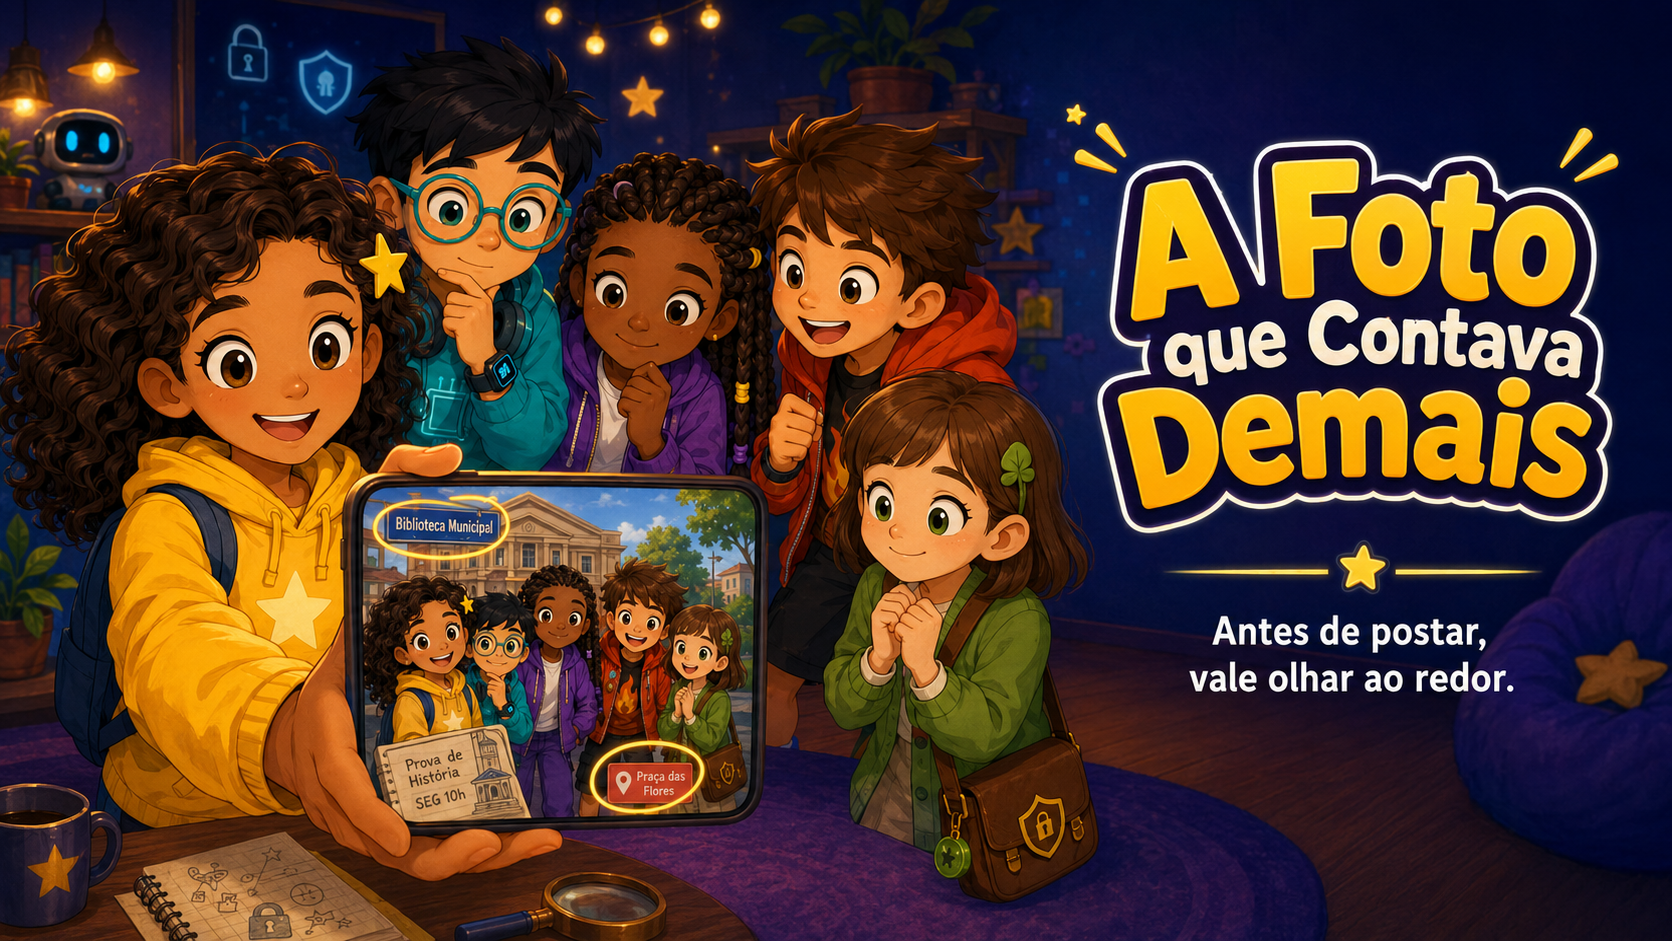
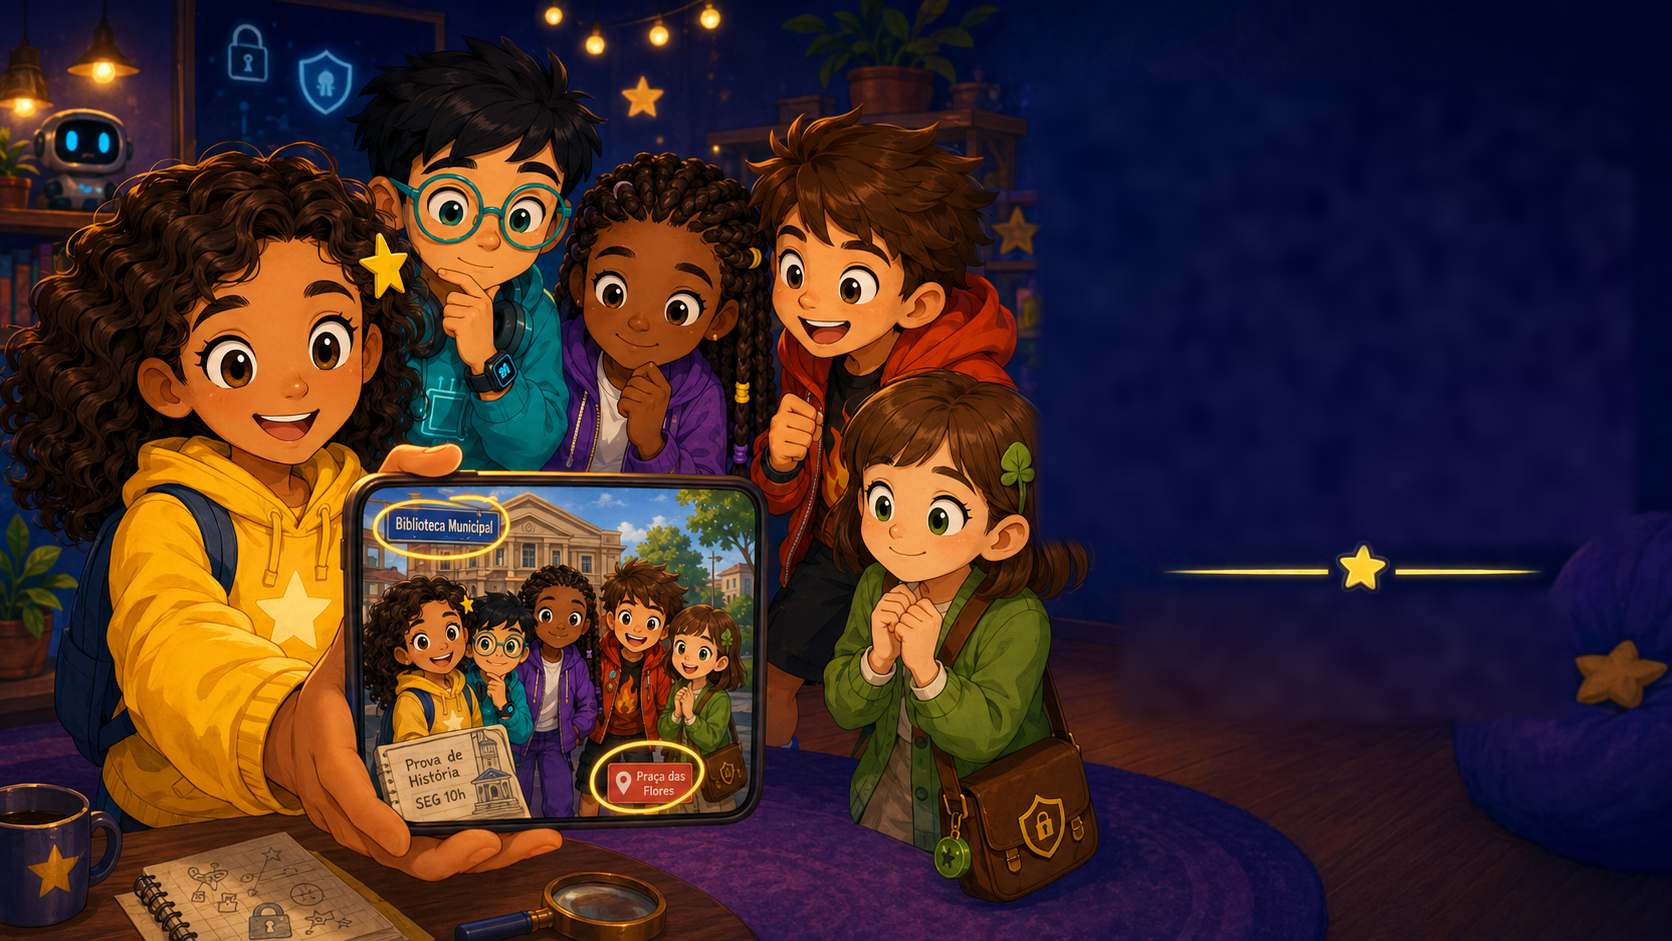
Replace Case 004 cover with text-free artwork
Replace the Case 004 cover asset with the edited text-free version and remove the temporary crop workaround.

Changed region(s): [[0.622, 0.0925, 0.9641, 0.5855], [0.7153, 0.6472, 0.933, 0.7396]]

diff --git a/app/layout.tsx b/app/layout.tsx
@@ -13,7 +13,6 @@ import './kids-game-v3.css';
 import './kids-right-panel-readable.css';
 import './kids-heading-standard.css';
 import './kids-library-stream.css';
-import './case004-cover-clean.css';
 import './marketing-home.css';
 import './scroll-modes.css';
 import './marketing-home-refine.css';
